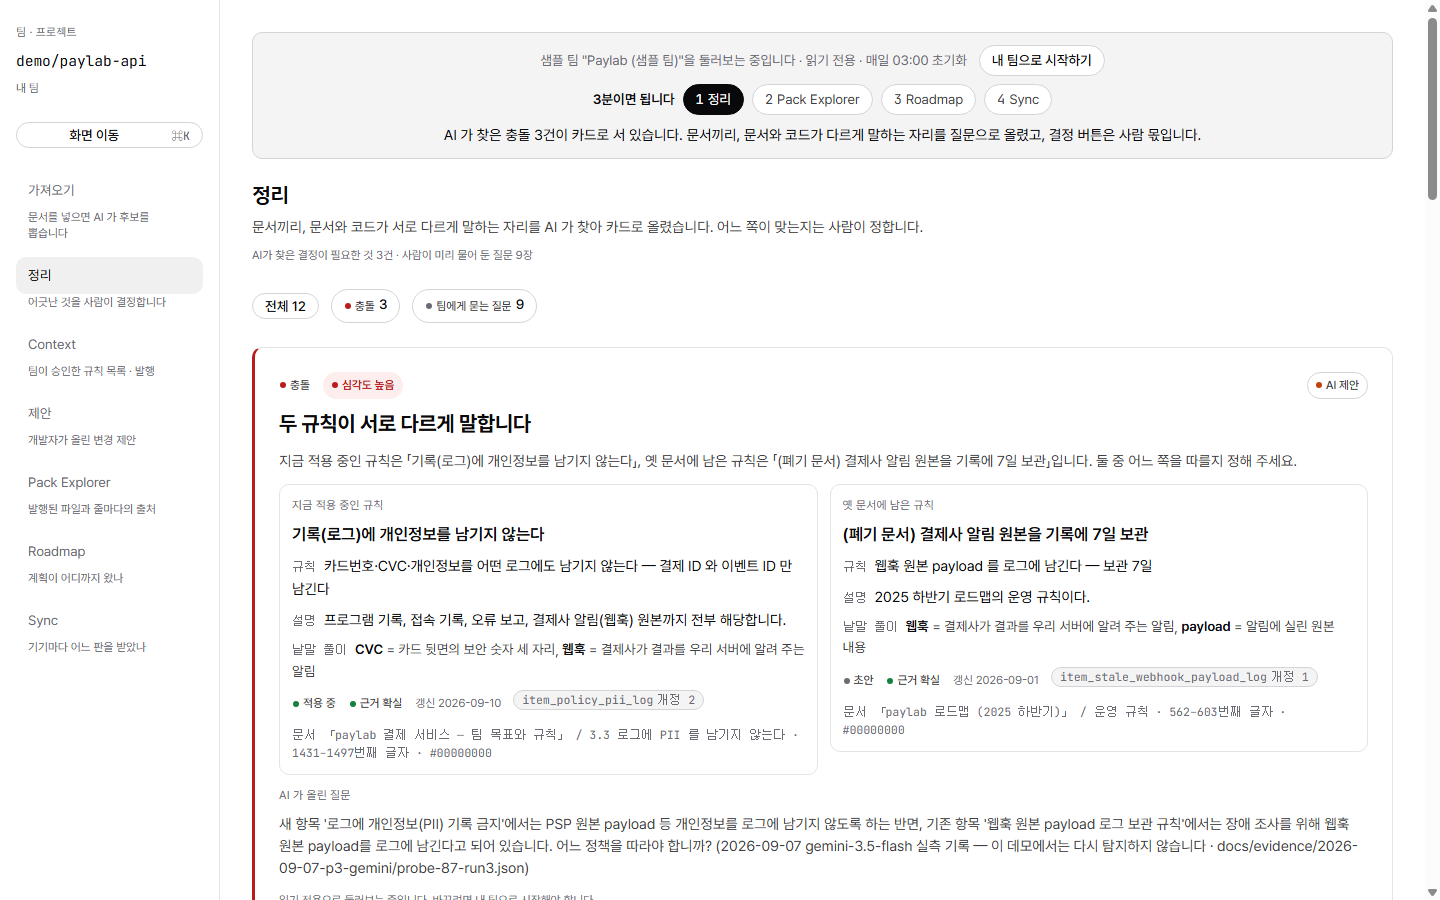
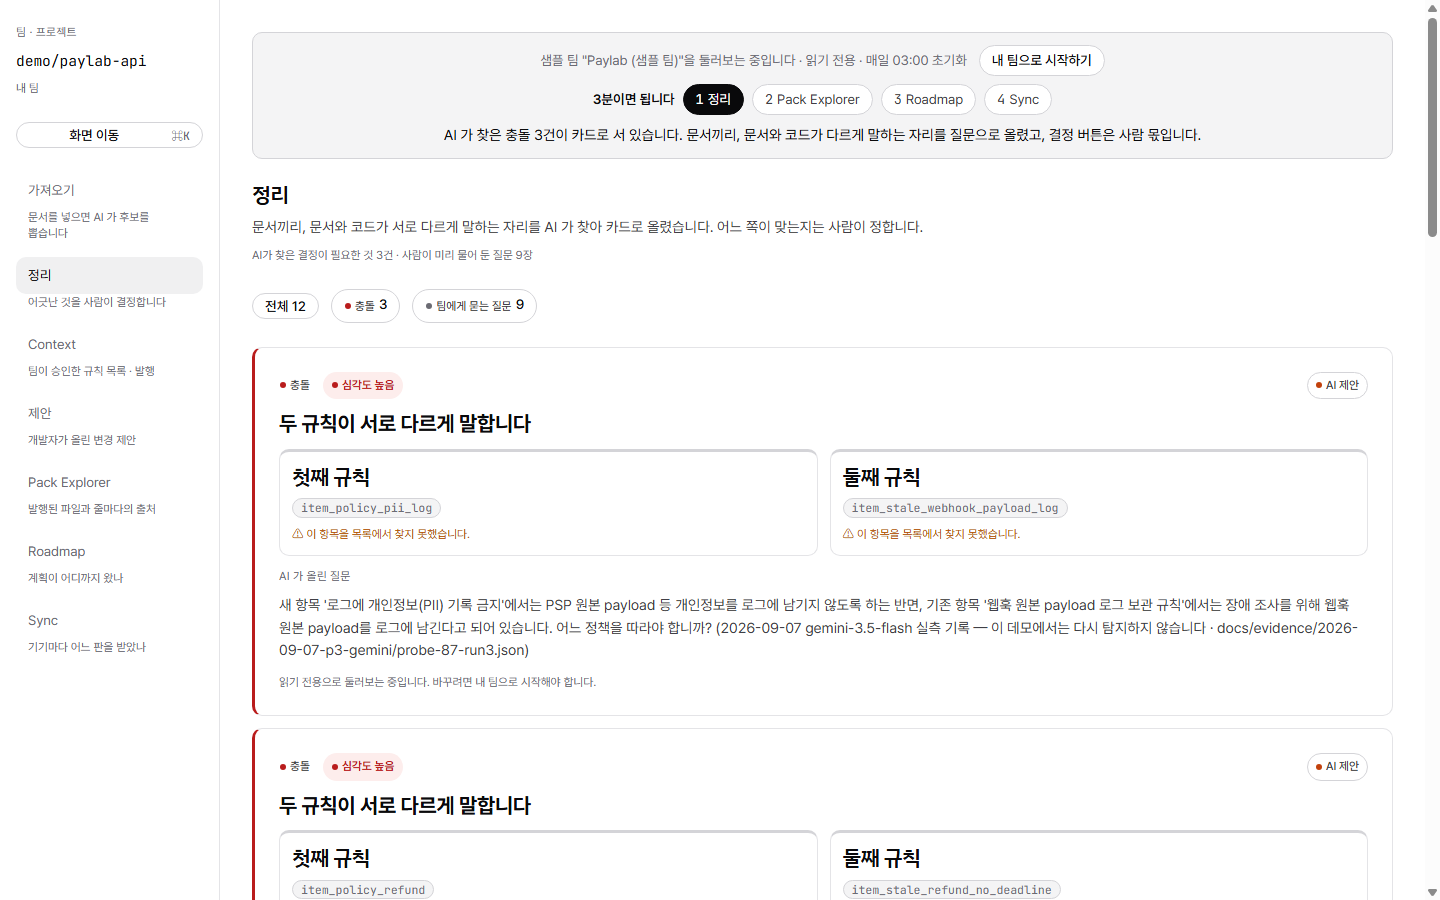
ux(web): 충돌 카드 두 쪽의 이름을 표제체로 크게, 사실의 색으로 — 지금 적용 중(초록) / 옛 문서(주황 + 회색 면) / 코드(모노)
사용자: 「지금 문서 / 옛 문서 이런 걸 좀 강조하는 폰트였으면」 · 「색깔이 다르게 하든지 뭔가 더 눈에 잘 보이면」.
- `.side-name`: 표제체 600 21px — 카드 안에서 제일 크다, 제목은 그 밑 · 머리 문장(`ConflictSentence`)에서도 두 이름이 굵다
- `SideName.tone`(ok/warn/code/neutral): 지금 적용 중 = ok 초록(「적용 중」 칩과 같다 · 위 괘선 3px + 이름) · 옛 문서 = warn 주황(「옛 버전」 칩) + 회색 면 · 코드 = 모노
  ⚠ 사실의 색이다 — 초록이 「맞는 쪽」이 아니다, 결정은 사람 몫
- 시험(.side-name/색/stale 쌍) · DESIGN_BRIEF ⑩ · STATUS 열넷째 판

diff --git a/apps/web/src/components/conflict-card.tsx b/apps/web/src/components/conflict-card.tsx
@@ -7,7 +7,7 @@ import {
 } from '@contextops/schema'
 import type { WriteDoor } from '../lib/web/actor'
 import type { ConflictCard as ConflictRow } from '../lib/web/queries'
-import { FALLBACK_NAMES, conflictSentence, sideNames, type SideNames } from '../lib/web/conflict-sides'
+import { CONFLICT_ASK, FALLBACK_NAMES, SOLO_NAME, sideNames, type SideName, type SideNames } from '../lib/web/conflict-sides'
 import { ITEM_GIST_KEY, itemGist } from '../lib/web/item-gist'
 import { dateText } from '../lib/web/time'
 import {
@@ -218,9 +218,7 @@ export function ConflictCard({ state, on }: { state: ConflictCardState; on: Conf
       <h3 className="conflict-head">{CONFLICT_HEADLINE[conflict.kind]}</h3>
       {/* 사람 말 한 문장 — 두 쪽이 **무엇인지**와 **무엇을 정해 달라는지** (`conflictSentence`). 두 항목이 다 있을 때만. */}
       {rule.detected && state.a !== null && state.b !== null ? (
-        <p className="conflict-plain">
-          {conflictSentence(conflict.kind as DetectedConflictKind, sideNames(state.a, state.b), state.a.title, state.b.title)}
-        </p>
+        <ConflictSentence kind={conflict.kind as DetectedConflictKind} a={state.a} b={state.b} />
       ) : null}
       {rule.detected ? null : <p className="ink text-section">{conflict.question}</p>}
 
@@ -248,6 +246,19 @@ export function ConflictCard({ state, on }: { state: ConflictCardState; on: Conf
             : <p className="meta">{blockedText(state)}</p>))
         : <Decided state={state} />}
     </article>
+  )
+}
+
+/**
+ * 머리 밑의 사람 말 한 문장 — 두 쪽의 **이름이 굵다** (사용자: 「지금 문서 / 옛 문서 이런 걸 좀 강조하는 폰트였으면」).
+ * 글자는 `conflictSentence()` 와 같다 — 조각은 굵기만 더한다 (시험은 글자를 잰다).
+ */
+function ConflictSentence({ kind, a, b }: { kind: DetectedConflictKind; a: ContextItemView; b: ContextItemView }) {
+  const names = sideNames(a, b)
+  return (
+    <p className="conflict-plain">
+      <b className={`side-${names.a.tone}`}>{names.a.long}</b>은 「{a.title}」, <b className={`side-${names.b.tone}`}>{names.b.long}</b>은 「{b.title}」입니다. {CONFLICT_ASK[kind]}
+    </p>
   )
 }
 
@@ -283,8 +294,8 @@ const ANCHOR_BODY: Record<ConflictAnchor, (state: ConflictCardState) => ReactNod
     const names = sideNames(state.a, state.b)
     return (
       <div className={two ? 'sides' : 'row items-start wrap'}>
-        <ItemSide label={two ? names.a.long : '근거'} itemId={state.conflict.a_item_id} item={state.a} />
-        {two ? <ItemSide label={names.b.long} itemId={state.conflict.b_item_id} item={state.b} /> : null}
+        <ItemSide name={two ? names.a : SOLO_NAME} itemId={state.conflict.a_item_id} item={state.a} />
+        {two ? <ItemSide name={names.b} itemId={state.conflict.b_item_id} item={state.b} /> : null}
       </div>
     )
   },
@@ -307,10 +318,11 @@ const ANCHOR_BODY: Record<ConflictAnchor, (state: ConflictCardState) => ReactNod
 }
 
 /** 어긋난 두 항목 중 한쪽. **근거를 제목 옆에 같이 낸다** (DESIGN_BRIEF §2-1 · P7). */
-function ItemSide({ label, itemId, item }: { label: string; itemId: string | null; item: ContextItemView | null }) {
+function ItemSide({ name, itemId, item }: { name: SideName; itemId: string | null; item: ContextItemView | null }) {
   return (
-    <div className="card pad-sm col-tight grow">
-      <span className="label">{label}</span>
+    //  이 쪽이 **무엇인지**가 제일 크고(표제체 `.side-name`), 색은 사실의 색이다 — 지금 = 초록 위 괘선, 옛 = 주황 위 괘선 + 회색 면 (`side-*`).
+    <div className={`card pad-sm col-tight grow side-card side-${name.tone}`}>
+      <span className={`side-name side-${name.tone}`}>{name.long}</span>
       {item === null ? (
         <>
           {itemId === null

diff --git a/apps/web/src/lib/web/conflict-sides.ts b/apps/web/src/lib/web/conflict-sides.ts
@@ -10,19 +10,25 @@ import type { ContextItemView, DetectedConflictKind } from '@contextops/schema'
 //  ⚠ 버튼 문구는 `{a} 쪽이 맞음` 처럼 **「쪽」 뒤에 조사**를 붙인다 — 이름의 받침이 무엇이든 조사가 안 깨진다.
 // =====================================================================
 
-export type SideName = { readonly short: string; readonly long: string }
+/**
+ * `tone` — 이름의 **색** (2026-09-11 · 사용자: 「색깔이 다르게 하든지 뭔가 더 눈에 잘 보이면」). 제품의 칩과 같은 뜻의 색만 쓴다:
+ * 지금 적용 중 = `ok`(「적용 중」 칩) · 옛 문서 = `warn`(「옛 버전」 칩) · 코드 = `code`(모노) · 나머지 = `neutral`.
+ * ⚠ 색은 사실(적용 중인가 · 옛 문서인가)이지 판단(「맞다」)이 아니다 — 초록이 「맞는 쪽」을 뜻하지 않는다. 결정은 사람 몫이다.
+ */
+export type SideTone = 'ok' | 'warn' | 'code' | 'neutral'
+export type SideName = { readonly short: string; readonly long: string; readonly tone: SideTone }
 export type SideNames = { readonly a: SideName; readonly b: SideName }
 
-const CODE: SideName = { short: '코드', long: '코드가 말하는 것' }
-const DOC: SideName = { short: '문서', long: '문서가 말하는 것' }
-const OLD: SideName = { short: '옛 규칙', long: '옛 문서에 남은 규칙' }
-const NOW: SideName = { short: '지금 규칙', long: '지금 적용 중인 규칙' }
-const NEW: SideName = { short: '새 초안', long: '새로 올라온 초안' }
-const LATER: SideName = { short: '최근 것', long: '더 최근에 고친 규칙' }
-const EARLIER: SideName = { short: '이전 것', long: '먼저 있던 규칙' }
+const CODE: SideName = { short: '코드', long: '코드가 말하는 것', tone: 'code' }
+const DOC: SideName = { short: '문서', long: '문서가 말하는 것', tone: 'neutral' }
+const OLD: SideName = { short: '옛 규칙', long: '옛 문서에 남은 규칙', tone: 'warn' }
+const NOW: SideName = { short: '지금 규칙', long: '지금 적용 중인 규칙', tone: 'ok' }
+const NEW: SideName = { short: '새 초안', long: '새로 올라온 초안', tone: 'neutral' }
+const LATER: SideName = { short: '최근 것', long: '더 최근에 고친 규칙', tone: 'neutral' }
+const EARLIER: SideName = { short: '이전 것', long: '먼저 있던 규칙', tone: 'neutral' }
 
 /** 사실로 가를 수 없을 때 — 그리고 한쪽이 없을 때. */
-export const FALLBACK_NAMES: SideNames = { a: { short: '첫째', long: '첫째 규칙' }, b: { short: '둘째', long: '둘째 규칙' } }
+export const FALLBACK_NAMES: SideNames = { a: { short: '첫째', long: '첫째 규칙', tone: 'neutral' }, b: { short: '둘째', long: '둘째 규칙', tone: 'neutral' } }
 
 function sourceKind(item: ContextItemView): 'code' | 'doc' | 'other' {
   const refs = item.source_refs
@@ -39,6 +45,9 @@ function isOld(item: ContextItemView): boolean {
 function nowOrNew(item: ContextItemView): SideName {
   return item.status === 'active' ? NOW : NEW
 }
+
+/** 한쪽뿐인 카드(열린 질문)의 자리 이름 — 짝이 없으니 「근거」다. */
+export const SOLO_NAME: SideName = { short: '근거', long: '근거', tone: 'neutral' }
 
 export function sideNames(a: ContextItemView | null, b: ContextItemView | null): SideNames {
   if (a === null || b === null) return FALLBACK_NAMES

diff --git a/apps/web/src/app/globals.css b/apps/web/src/app/globals.css
@@ -427,8 +427,19 @@ code, pre, .mono { font-family: var(--font-mono); font-variant-numeric: tabular-
 .key-line.jargon { font-size: var(--fs-table); color: var(--ink-2); }
 .key-line.jargon b { font-weight: 600; color: var(--ink); }
 .ctx-rev { color: var(--ink-3); }
-/* 카드 머리의 사람 말 한 문장 — 두 쪽이 무엇인지 · 무엇을 정해 달라는지 (`conflictSentence`). */
+/* 카드 머리의 사람 말 한 문장 — 두 쪽이 무엇인지 · 무엇을 정해 달라는지. 두 쪽의 이름은 굵고 잉크다. */
 .conflict-plain { font-size: var(--fs-body); color: var(--ink-2); line-height: 1.65; }
+.conflict-plain b { font-weight: 700; color: var(--ink); }
+/* 두 쪽의 이름 — 카드 안에서 제일 크다: 표제체 600 (사용자: 「지금 문서 / 옛 문서 이런 걸 좀 강조하는 폰트였으면」 · 2026-09-11). */
+.side-name { font-family: var(--font-display); font-weight: 600; font-size: var(--fs-section); letter-spacing: -0.02em; line-height: 1.25; color: var(--ink); }
+/* 두 쪽의 색 — 사실의 색이다 (2026-09-11 · 「색깔이 다르게 하든지」): 지금 적용 중 = 초록(「적용 중」 칩과 같다) · 옛 문서 = 주황(「옛 버전」 칩과 같다) + 회색 면 · 코드 = 모노.
+   ⚠ 초록이 「맞는 쪽」이 아니다 — 결정은 사람 몫. 위 괘선 3px 만 색이고 글자는 이름뿐이다. */
+.side-card { border-top: 3px solid var(--line-hi); }
+.side-card.side-ok { border-top-color: var(--ok); }
+.side-card.side-warn { border-top-color: var(--warn); background: var(--surface-hi); }
+.side-name.side-ok, .conflict-plain b.side-ok { color: var(--ok); }
+.side-name.side-warn, .conflict-plain b.side-warn { color: var(--warn); }
+.side-name.side-code { font-family: var(--font-mono); letter-spacing: 0; }
 /* 심각도 높음 — 카드 왼쪽에 빨간 괘선, 칩은 옅은 빨강 면 (색 배경이 붙는 유일한 칩). 사용자: 「심각도 높으면 좀 더 눈에 잘 보여야」 (2026-09-10 저녁). */
 .conflict-card[data-severity='high'] { border-left: 3px solid var(--bad); }
 .chip.chip-strong { background: var(--bad-bg); color: var(--bad); padding: var(--sp-1) var(--sp-2); font-weight: 600; }

diff --git a/apps/web/test/web-conflict-card.test.ts b/apps/web/test/web-conflict-card.test.ts
@@ -406,6 +406,10 @@ describe('🔴 없는 것을 지어내지 않는다', () => {
     expect(names.b.long).toBe('코드가 말하는 것')
     expect(two).toContain(names.a.long)
     expect(two).toContain(names.b.long)
+    //  이름은 카드 안에서 제일 크다(`.side-name`) — 그리고 머리 문장에서도 굵다 (2026-09-11 · 「강조하는 폰트」).
+    const html = draw()
+    expect(html).toContain(`<span class="side-name side-${names.a.tone}">${names.a.long}</span>`)
+    expect(html).toContain(`<b class="side-${names.a.tone}">${names.a.long}</b>`)
     expect(two).toContain(`「${base().a!.title}」`)
     expect(two).toContain('정해 주세요')
     expect(two).not.toMatch(/(^| )[AB]( |$)/)
@@ -413,6 +417,12 @@ describe('🔴 없는 것을 지어내지 않는다', () => {
     const stale = sideNames(item(), item({ id: 'old', tags: ['stale'], status: 'draft', source_refs: [DOC_REF] }))
     expect(stale.a.long).toBe('지금 적용 중인 규칙')
     expect(stale.b.long).toBe('옛 문서에 남은 규칙')
+    //  색은 사실의 색 — 지금 = ok(「적용 중」 칩과 같다) · 옛 = warn(「옛 버전」 칩과 같다). 코드는 모노(code), 문서는 neutral.
+    expect([stale.a.tone, stale.b.tone]).toEqual(['ok', 'warn'])
+    expect([names.a.tone, names.b.tone]).toEqual(['neutral', 'code'])
+    const staleHtml = draw({ b: item({ id: 'old', tags: ['stale'], status: 'draft', source_refs: [DOC_REF] }) })
+    expect(staleHtml).toContain('side-card side-ok')
+    expect(staleHtml).toContain('side-card side-warn')
     //  가를 사실이 없으면 첫째·둘째 — 지어내지 않는다.
     const same = sideNames(item(), item({ id: 'twin' }))
     expect([same.a.short, same.b.short]).toEqual(['첫째', '둘째'])

diff --git a/docs/DESIGN_BRIEF.md b/docs/DESIGN_BRIEF.md
@@ -232,6 +232,8 @@
 > ⑩ (사용자: 「A, B 로 하지 말고 좀 더 쉽게 와닿는 설명 없어?」 · 「심각도 높으면 좀 더 눈에 잘 보여야」) 두 쪽을 **무엇인지**로 부른다 — `lib/web/conflict-sides.ts` 가 항목의 사실(근거 종류·폐기 표시·상태·갱신)에서
 > 「지금 적용 중인 규칙 / 옛 문서에 남은 규칙」 「문서가 말하는 것 / 코드가 말하는 것」 「새로 올라온 초안」 「더 최근에 고친 규칙」을 고르고, 가를 수 없으면 「첫째·둘째」. 머리 밑에 사람 말 한 문장
 > (「지금 적용 중인 규칙은 「…」, 옛 문서에 남은 규칙은 「…」입니다. 둘 중 어느 쪽을 따를지 정해 주세요.」). 버튼은 틀 `{a} 쪽이 맞음`(「쪽」 뒤 조사라 받침 무관). 심각도 높음은 카드 왼쪽 빨간 괘선 + 옅은 빨강 칩(색 배경이 붙는 유일한 칩).
+> 두 쪽의 이름은 카드 안에서 **제일 크다** — 표제체 600 21px(`.side-name`), 머리 문장에서도 굵게 (2026-09-11 · 사용자: 「지금 문서 / 옛 문서 이런 걸 좀 강조하는 폰트였으면」).
+> 그리고 **색** (사용자: 「색깔이 다르게 하든지」) — 사실의 색만: 지금 적용 중 = `ok` 초록(「적용 중」 칩과 같다 · 위 괘선 3px + 이름) · 옛 문서 = `warn` 주황(「옛 버전」 칩과 같다) + 회색 면 · 코드 = 모노 · 나머지 = 잉크. 초록이 「맞는 쪽」을 뜻하지 않는다 — 결정은 사람 몫.
 
 ### 화면 1 — 랜딩 `/`
 목표: 심사위원이 10초 안에 문제를 이해하고, 클릭 하나로 샘플 팀에 들어간다. 스크롤 없이 첫 화면에 A·B·C가 보인다.
